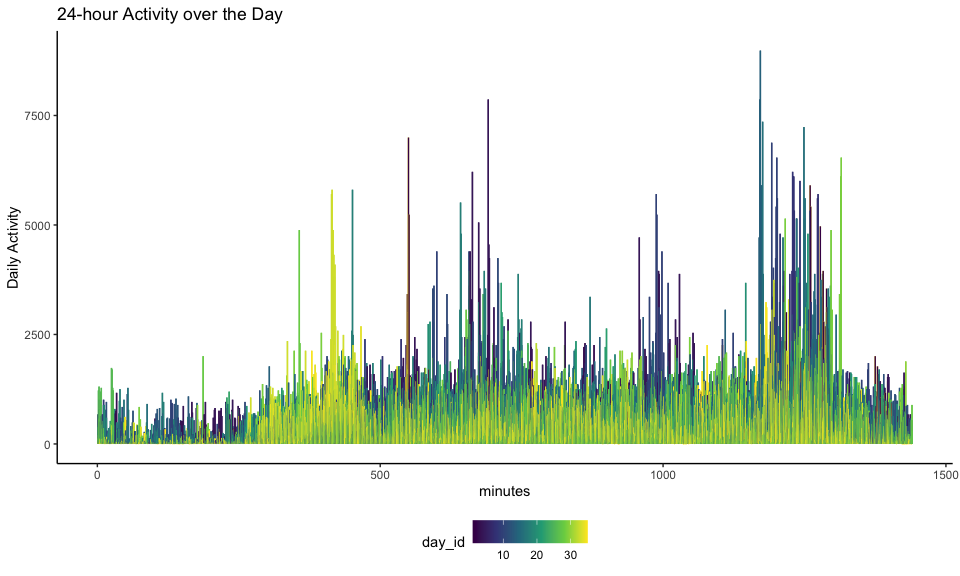
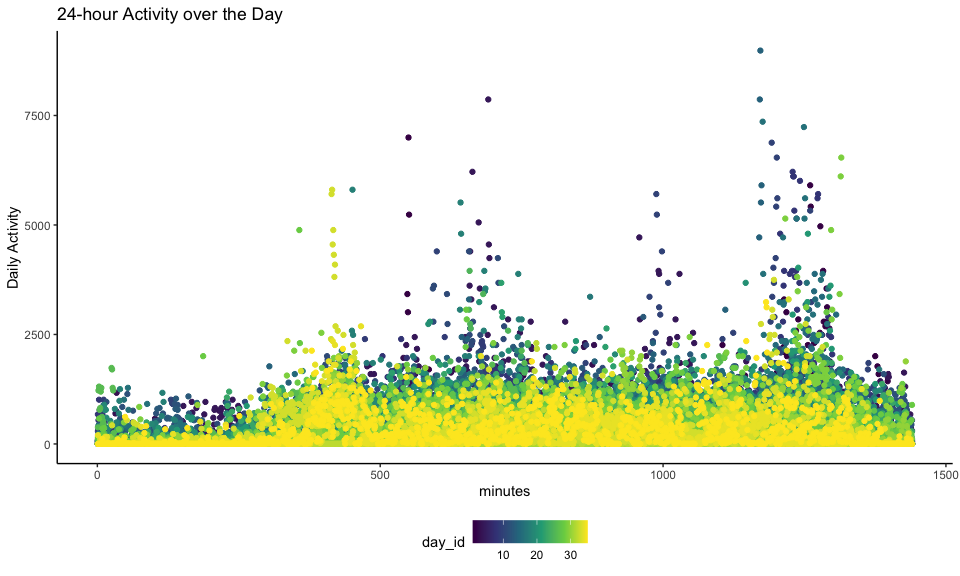
DS_hw3_fc2691_final-edition

Changed region(s): [[0.0938, 0.1562, 0.9688, 0.7812], [0.4062, 0.3438, 0.4375, 0.4062]]

diff --git a/p8105_hw3_fc2691.md b/p8105_hw3_fc2691.md
@@ -107,7 +107,7 @@ plot_insta_prod =
     theme_classic() +
     theme(legend.position = "bottom") +
     labs(
-    title = "Order Number in produce (>10000)",
+    title = "Order Number in produce department (>10000)",
     x = "Aisle",
     y = "Order Numbers (N)",
     caption = "Data from the instacart package"
@@ -462,6 +462,7 @@ accel_clean =
   pivot_longer(
     activity_1:activity_1440, 
     names_to = "mins", 
+    #names_prefix = "activity.",
     values_to = "act_count"
   ) %>% 
   mutate(
@@ -580,7 +581,7 @@ accel_act_day =
 accel_act_day_plot = 
   accel_act_day %>%
   ggplot(aes(x = mins, y = act_count, color = day_id)) + 
-  geom_line() +
+  geom_point() + 
   theme_classic() +
   theme(legend.position = "bottom") + 
   labs(
@@ -594,4 +595,4 @@ accel_act_day_plot
 <img src="p8105_hw3_fc2691_files/figure-gfm/unnamed-chunk-11-1.png" width="90%" />
 **ANSWER** From the plot, the activity is more active during the
 day(morning and afternoon), and the activity count would significantly
-decrease during the night. test test test
+decrease during the night.
